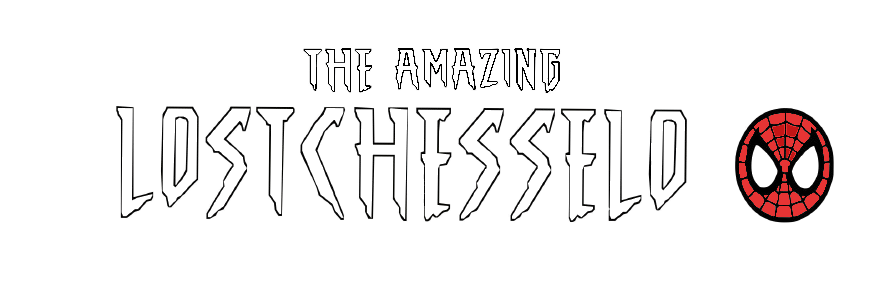
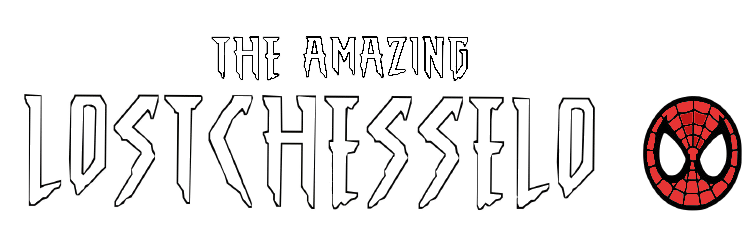
doc resize assets

diff --git a/ReadMe.md b/ReadMe.md
@@ -1,9 +1,7 @@
 <div align="center">
-    <img width="450" src="assests/THE-AMAZING-LOST-CHESS-ELO-removebg-preview.png" alt="Spider-Man"/>
-</div>
-
-<div align="center">
-    <img width="300" src="assests/spider-man.gif" alt="Spider-Man"/>
+    <img width="375" src="assests/THE-AMAZING-LOST-CHESS-ELO-removebg-preview.png" alt="Spider-Man"/>
+    <br>
+    <img height="350" src="assests/spider-man-ezgif.com-crop.gif" alt="Spider-Man"/>
 </div>
 
 
